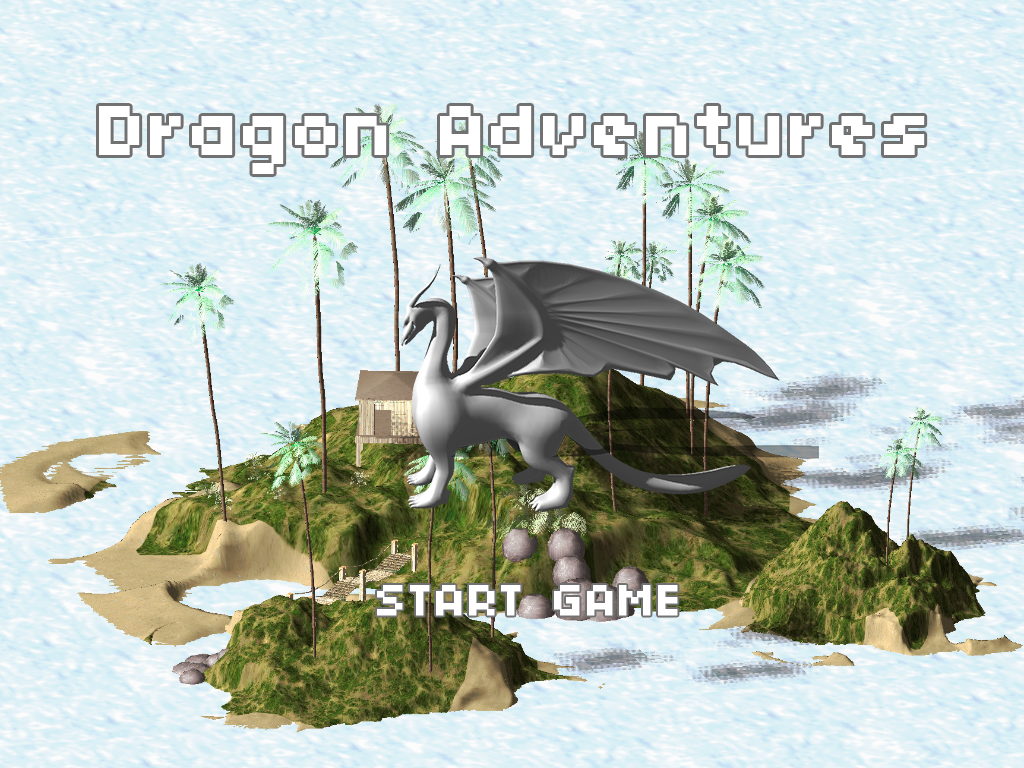
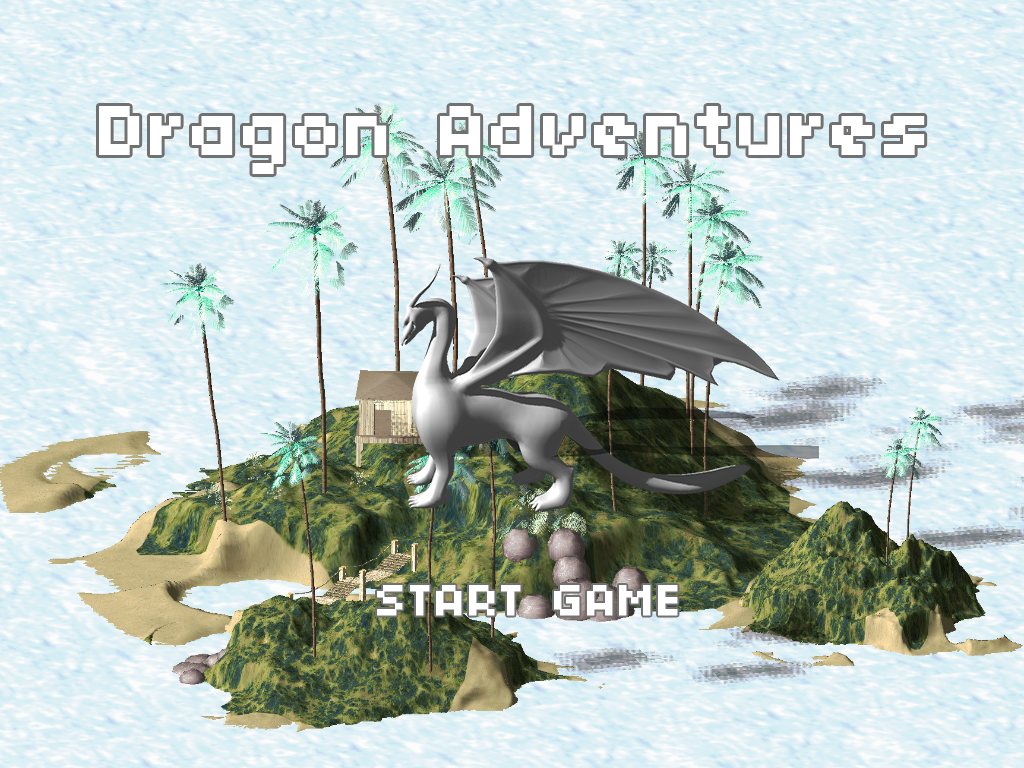
updated with minimap, changed coloring for game ui

diff --git a/game/game.html b/game/game.html
@@ -22,7 +22,7 @@
         </div>
         
         <div class="text">
-            Dragon Adventures is an adventure game where the user plays as a dragon. The dragon can collect coins to trade for food, weapons, and potions. Additionally, it levels up while exploring all there is to offer in this fantasy world. The arrows exist alongside the dragon since this is a game meant for the tablet and that will be the primary way to navigate. If the user wishes to go diagonally, then the user would be able to click on two directions (i.e. up arrow and left arrow) at the same time to do so. For this assignment, I used free online 3d models from 
+            Dragon Adventures is an adventure game where the user plays as a dragon. The dragon can collect coins to trade for food, weapons, and potions. Additionally, it levels up while exploring all there is to offer in this fantasy world. The arrows exist alongside the dragon since this is a game meant for the tablet and that will be the primary way to navigate. If the user wishes to go diagonally, then the user would be able to click on two directions (i.e. up arrow and left arrow) at the same time to do so. In the corner, there is a minimap so the player can tell where the dragon is relative to the rest of the area. For this assignment, I used free online 3d models from 
             { <a href="https://free3d.com/3d-model/dragon-27353.html">♥</a> 
             <a href="https://free3d.com/3d-model/habitat-92094.html">♥</a>  
             <a href="https://free3d.com/3d-model/small-tropical-island-73753.html">♥</a> }.
